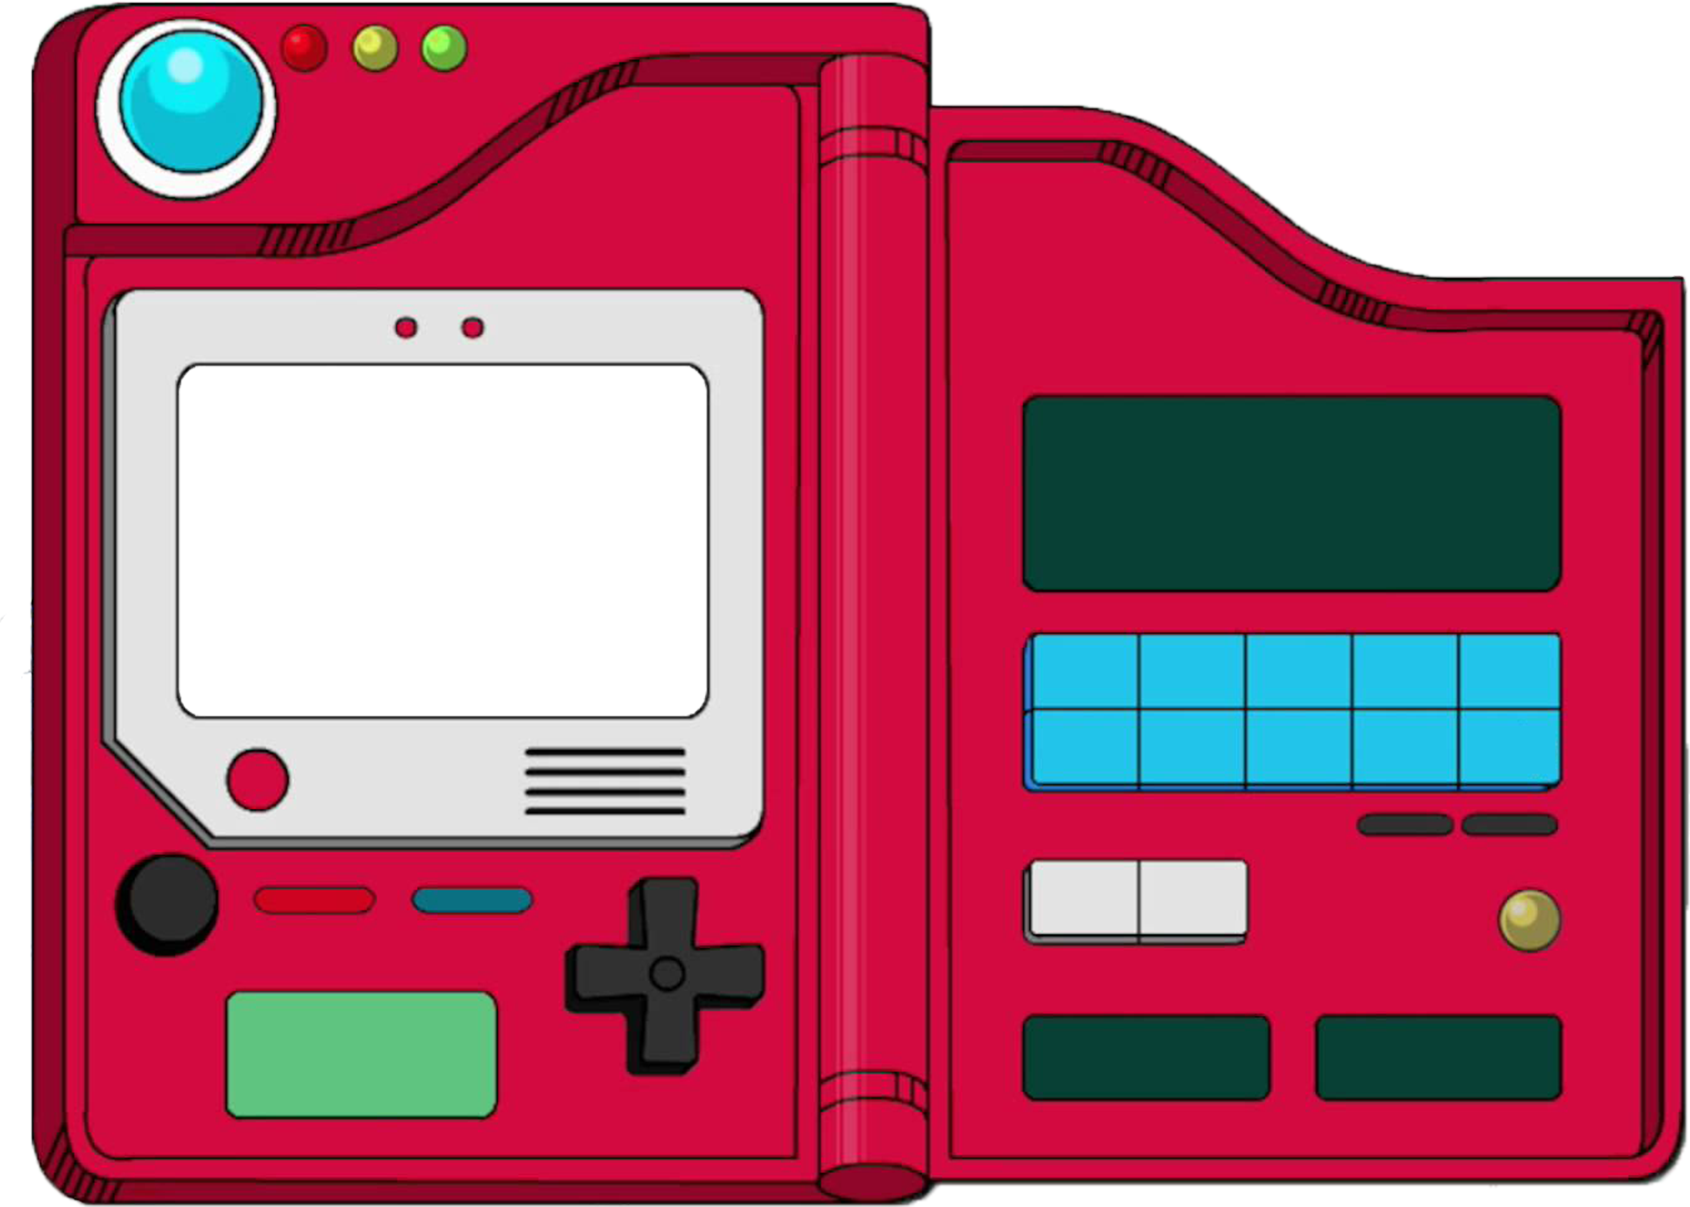
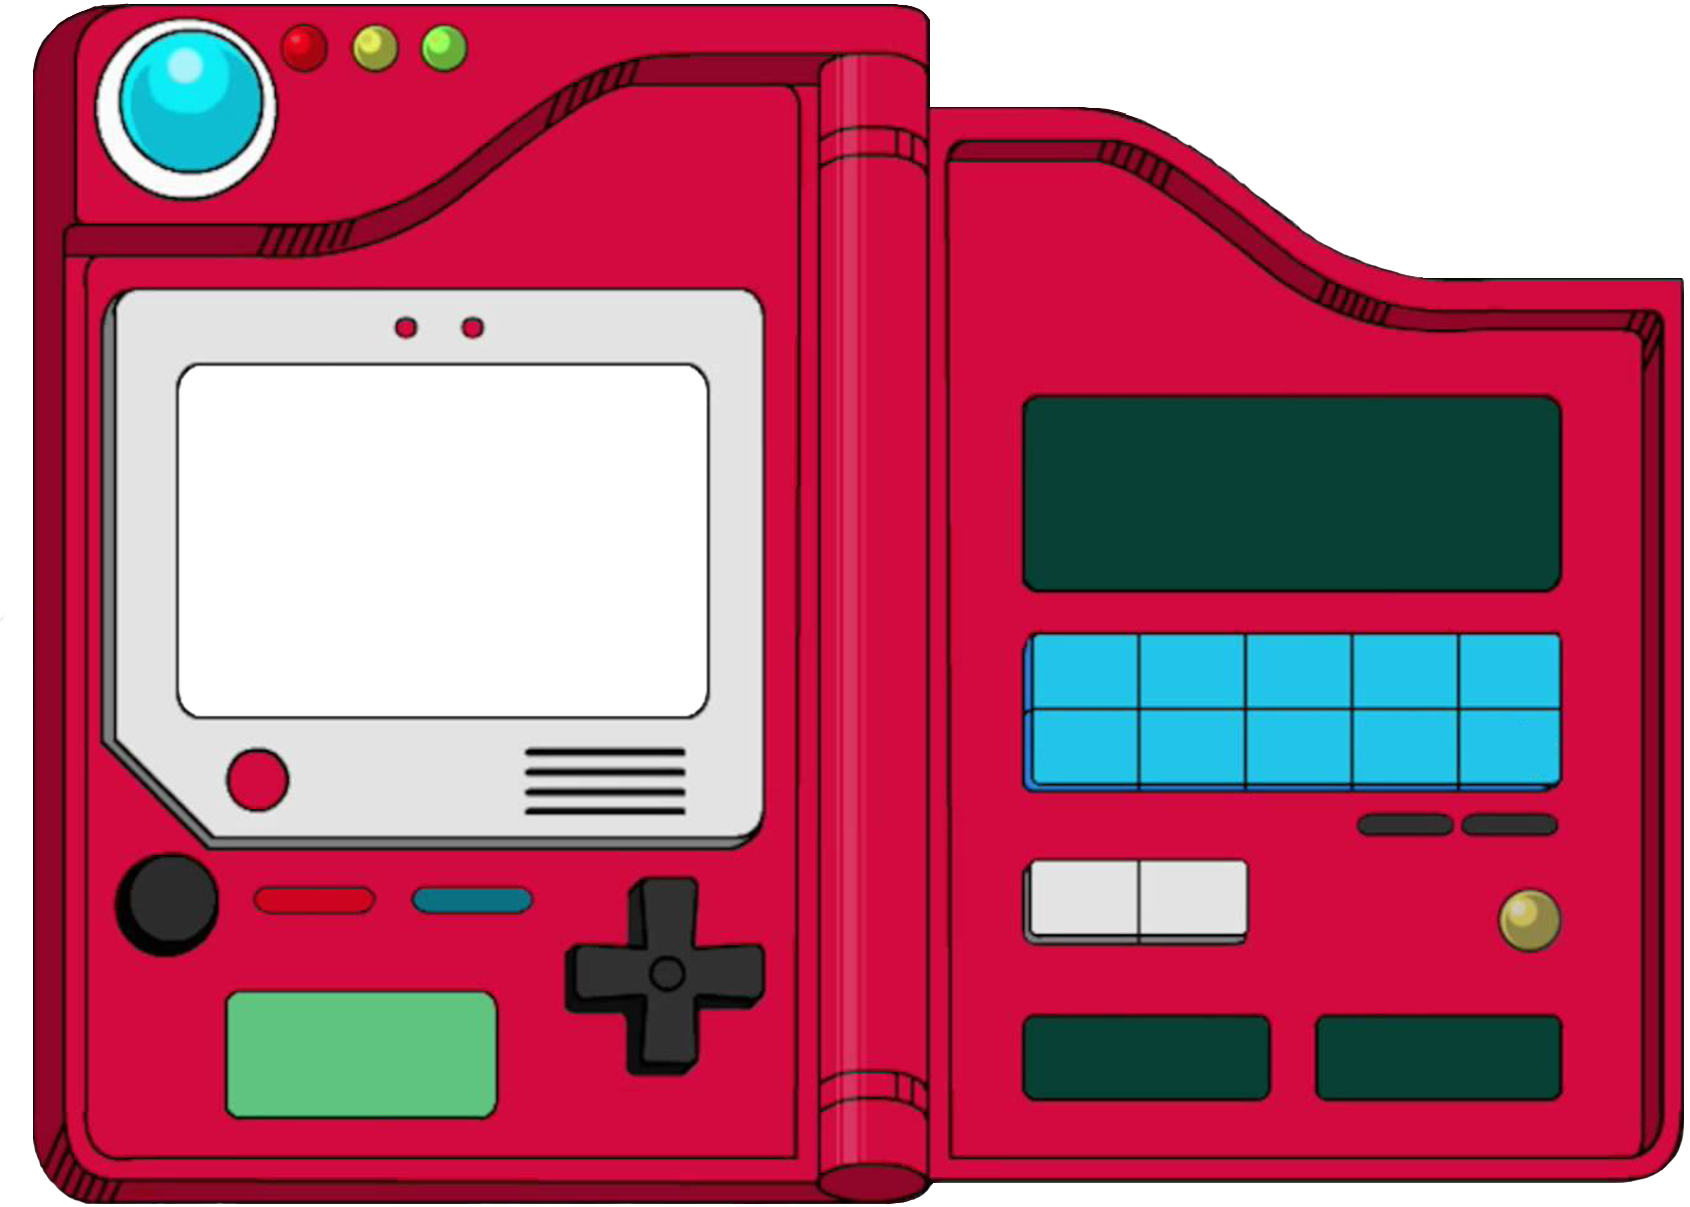
bordas brancas retiradas

diff --git a/style.css b/style.css
@@ -136,7 +136,7 @@
     position: absolute;
     width: 19.35%;
     display: inline-block;
-    margin-top: 13.4%;
+    margin-top: 13.7%;
     margin-left: 54.3%;
     position: absolute;
     font-family: sans-serif;
@@ -404,25 +404,4 @@ progress {}
     margin-left: 41%;
     margin-top: 31.2%;
     color: transparent;
-}
-
-body {
-    background: linear-gradient(-45deg, #ee7752, #e73c7e, #23a6d5, #23d5ab);
-    background-size: 400% 400%;
-    animation: gradient 15s ease infinite;
-    height: 100vh;
-}
-
-@keyframes gradient {
-    0% {
-        background-position: 0% 50%;
-    }
-
-    50% {
-        background-position: 100% 50%;
-    }
-
-    100% {
-        background-position: 0% 50%;
-    }
 }
